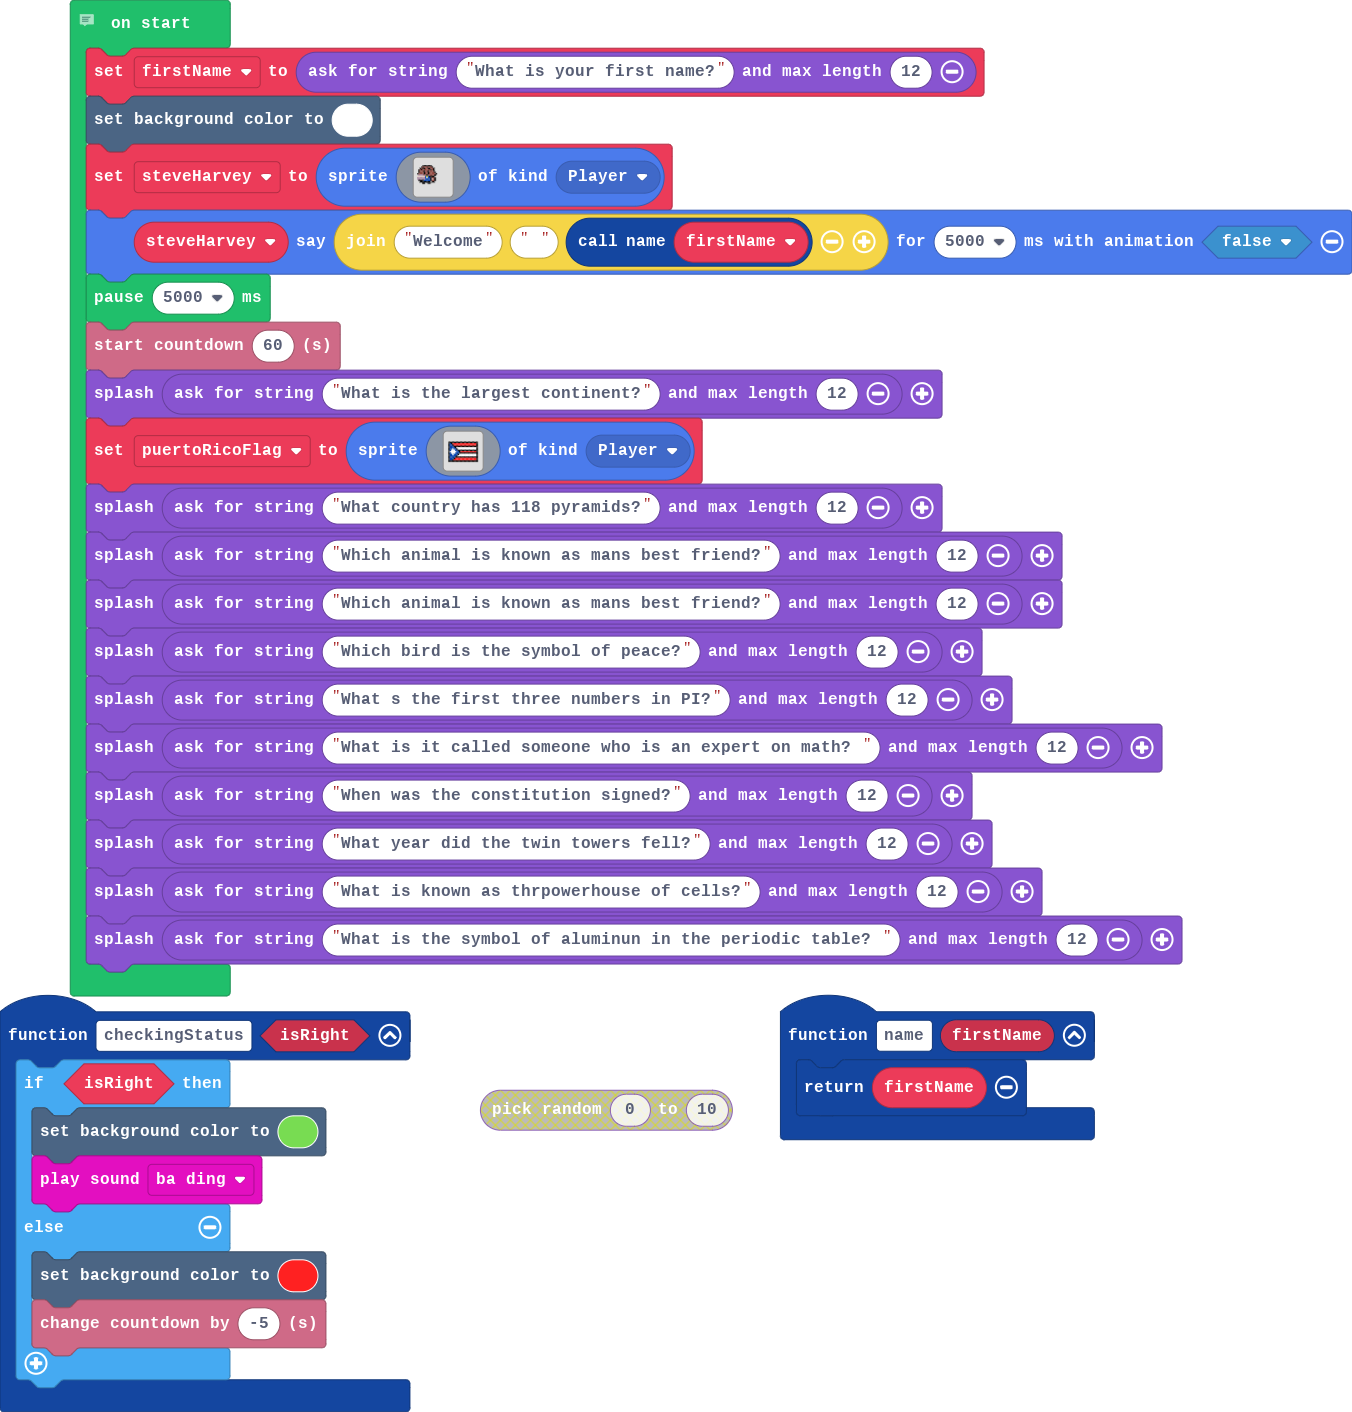
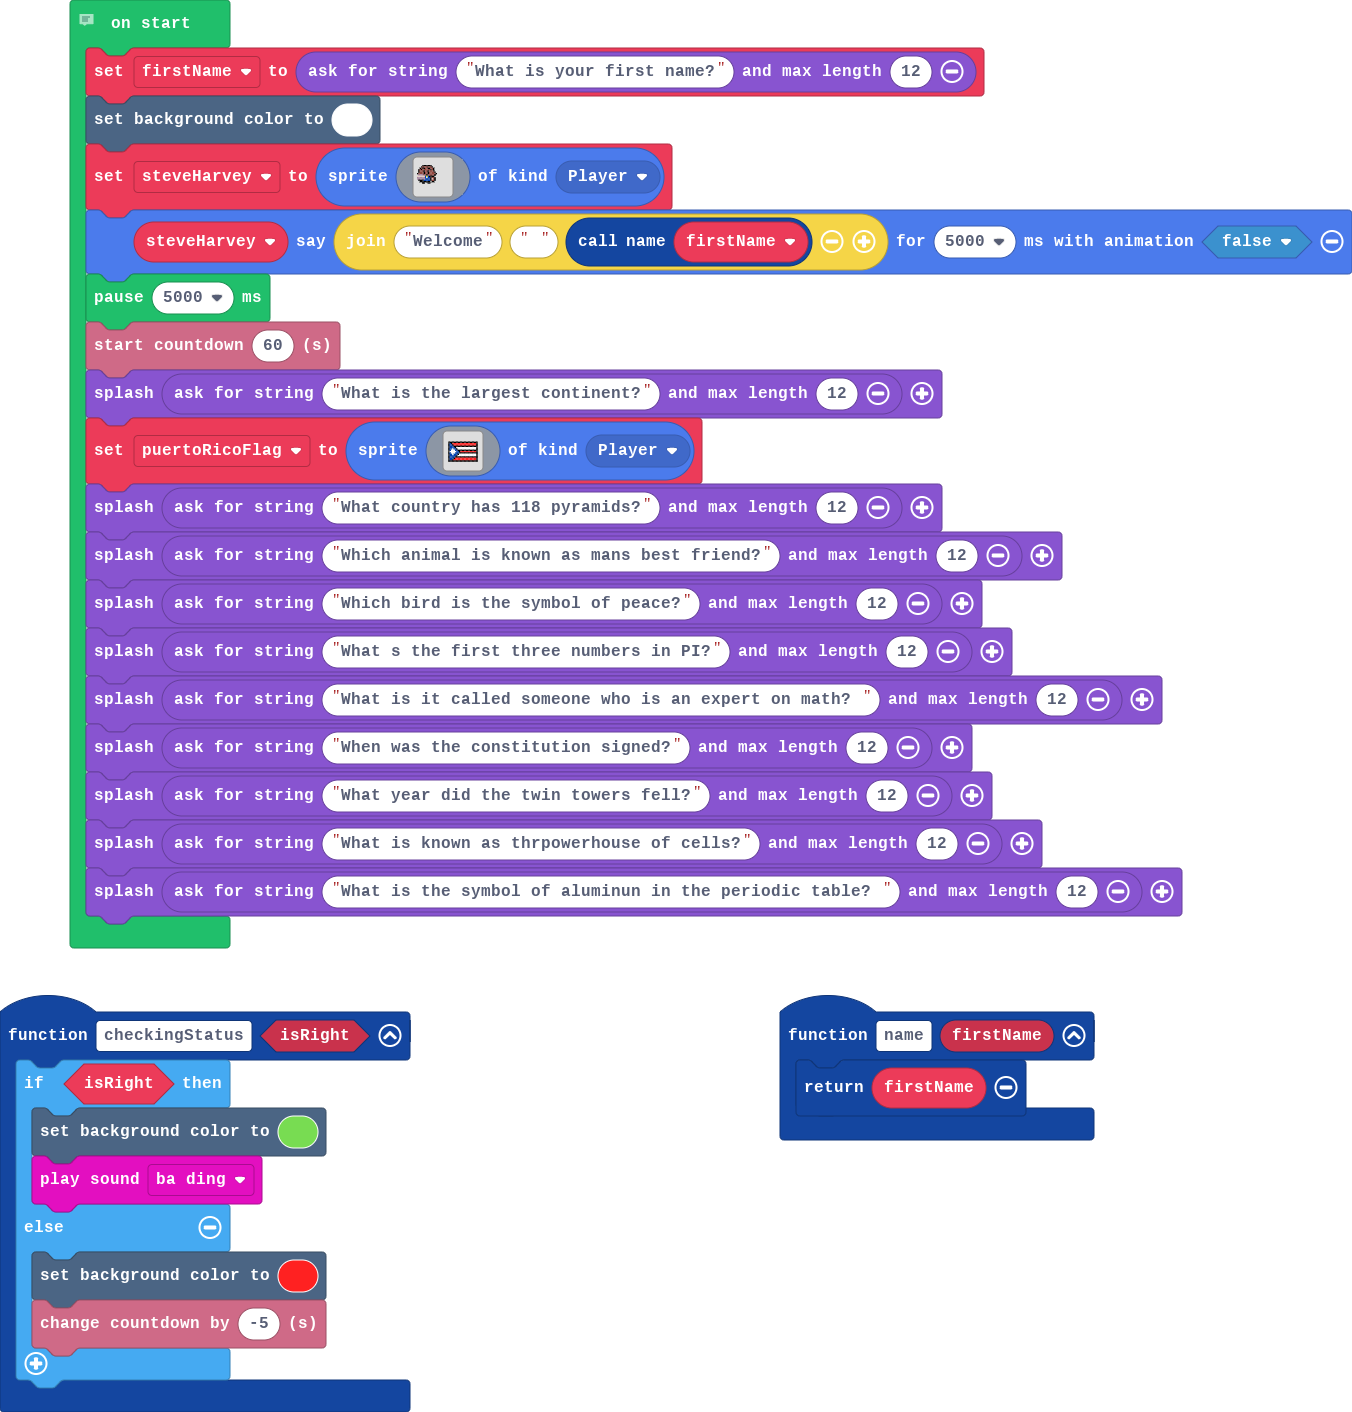
Update main.blocks, main.ts

Changed region(s): [[0.0311, 0.4051, 0.9009, 0.7167], [0.3417, 0.7479, 0.5592, 0.8102]]

diff --git a/main.ts b/main.ts
@@ -71,7 +71,6 @@ let puertoRicoFlag = sprites.create(img`
     `, SpriteKind.Player)
 game.splash(game.askForString("What country has 118 pyramids?", 12))
 game.splash(game.askForString("Which animal is known as mans best friend?", 12))
-game.splash(game.askForString("Which animal is known as mans best friend?", 12))
 game.splash(game.askForString("Which bird is the symbol of peace?", 12))
 game.splash(game.askForString("What s the first three numbers in PI?", 12))
 game.splash(game.askForString("What is it called someone who is an expert on math? ", 12))
